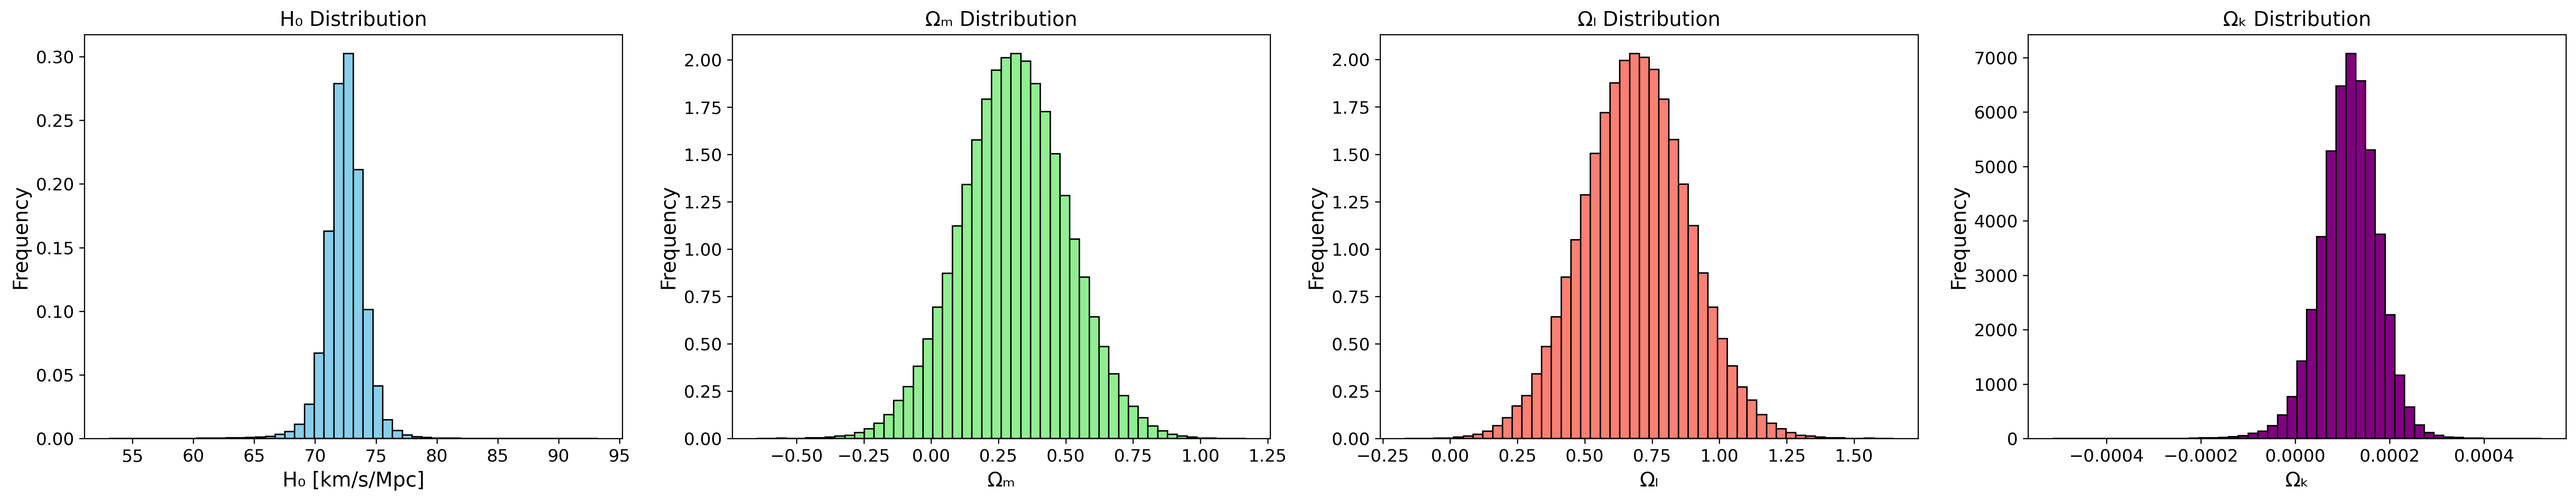
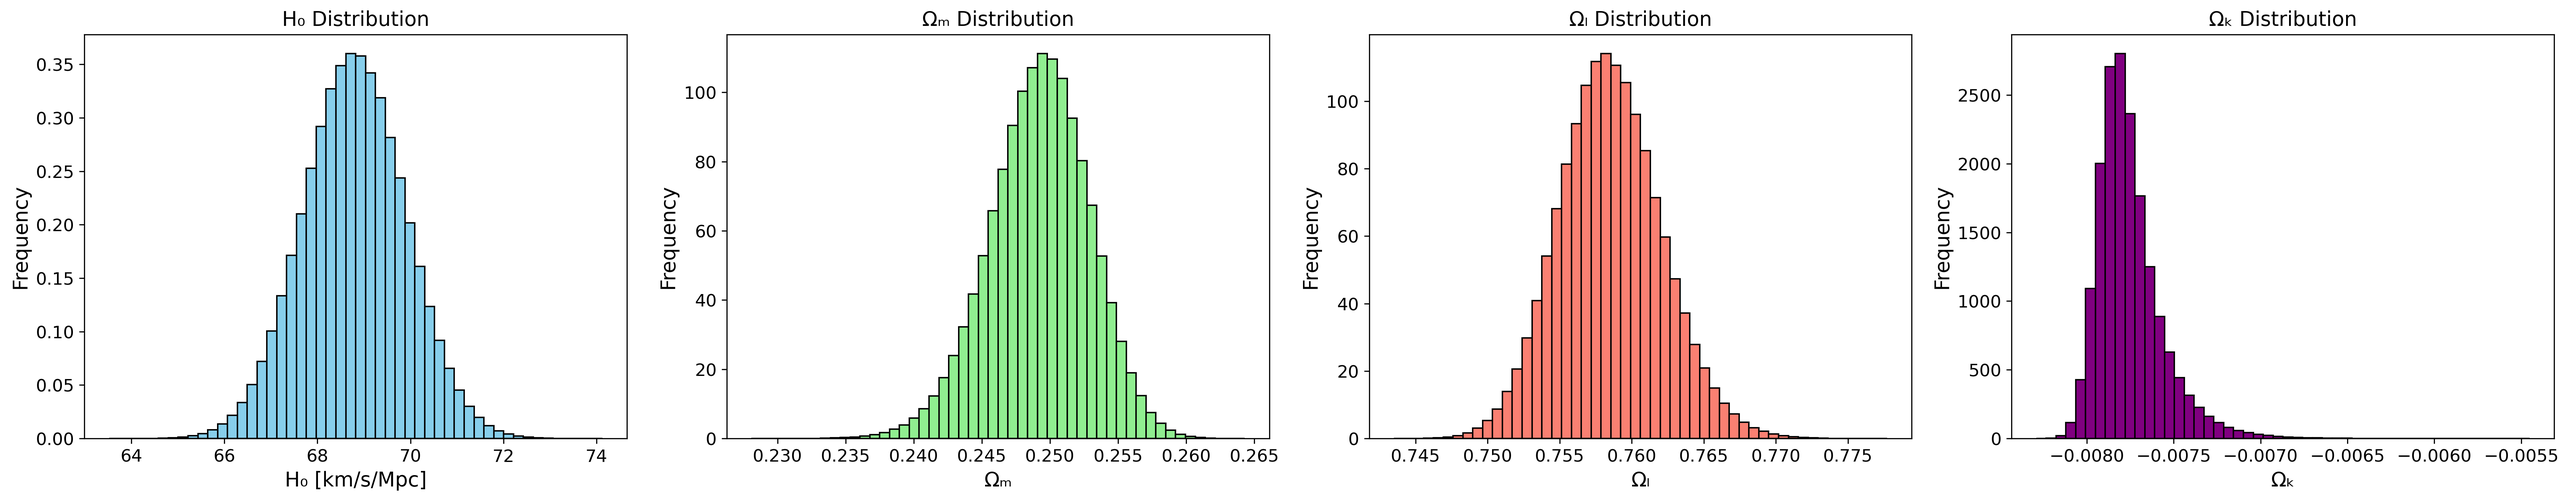
curved now working, but flat failing

diff --git a/Supernova_project/sbi_cosmology.py b/Supernova_project/sbi_cosmology.py
@@ -9,6 +9,7 @@ from torch.distributions import Independent, Uniform, Normal
 from sbi import inference as inference
 from sbi.neural_nets.factory import posterior_nn
 from sbi.analysis import pairplot
+import corner
 
 # Set seeds for reproducibility
 RANDOM_SEED = 42
@@ -20,7 +21,7 @@ torch.backends.cudnn.benchmark = False
 class SBIConfig:
     # SBI settings
     NUM_SIMULATIONS = 100000
-    NUM_POSTERIOR_SAMPLES = 100000  # Increased for better posterior visualization
+    NUM_POSTERIOR_SAMPLES = 1000000  # Increased for better posterior visualization
     BATCH_SIZE = 128    
     # Physics constants
     C = 299792.458  # Speed of light in km/s
@@ -49,7 +50,7 @@ class SBIConfig:
         'curved': {
             'H0': (71.0, 5),
             'Om': (0.3, 0.1),  # centered at 0.45 with std of (0.9-0)/4
-            'Ok': (0.0, 0.0)      # centered at 0 with std of 0.1
+            'Ok': (0.0, 0.05)      # centered at 0 with std of 0.1
         }
     }
 
@@ -142,29 +143,27 @@ class CosmologicalSimulator:
 # TODO: torch.distributions for covariance matrix 
 # TODO: corner plot (corner package)
 def apply_curvature_correction(chi, Ok):
-    """Apply curvature correction to comoving distance"""
-    Ok_abs = torch.abs(Ok)
-    sqrt_abs_Ok = torch.sqrt(Ok_abs)
+    """Apply curvature correction to comoving distance, differentiating between positive and negative Ok
     
-    # Handle different curvature cases
-    pos_mask = Ok > 0
-    neg_mask = Ok < 0
-    flat_mask = Ok == 0
+    For Ok > 0 (open universe):
+        chi/sqrt(Ok) + (chi^3)/6 * sqrt(Ok) + (chi^5)/120 * sqrt(Ok)^3
+    For Ok < 0 (closed universe):
+        chi/sqrt(-Ok) - (chi^3)/6 * sqrt(-Ok) + (chi^5)/120 * sqrt(-Ok)^3
+    """
+    # Handle positive Ok
+    def positive_ok(Ok, chi):
+        sqrt_Ok = torch.sqrt(Ok + SBIConfig.EPSILON)
+        return chi/sqrt_Ok + (chi**3)/6 * sqrt_Ok + (chi**5)/120 * sqrt_Ok**3
     
-    result = torch.zeros_like(chi)
+    # Handle negative Ok
+    def negative_ok(Ok, chi):
+        sqrt_neg_Ok = torch.sqrt(-Ok + SBIConfig.EPSILON)
+        return chi/sqrt_neg_Ok - (chi**3)/6 * sqrt_neg_Ok + (chi**5)/120 * sqrt_neg_Ok**3
     
-    # TODO: Taylorentwicklung
-    # Positive curvature
-    if torch.any(pos_mask):
-        result[pos_mask] = torch.sinh(sqrt_abs_Ok[pos_mask] * chi[pos_mask]) / (sqrt_abs_Ok[pos_mask] + SBIConfig.EPSILON)
-    
-    # Negative curvature
-    if torch.any(neg_mask):
-        result[neg_mask] = torch.sin(sqrt_abs_Ok[neg_mask] * chi[neg_mask]) / (sqrt_abs_Ok[neg_mask] + SBIConfig.EPSILON)
-    
-    # Flat case
-    if torch.any(flat_mask):
-        result[flat_mask] = chi[flat_mask]
+    # Use where to select appropriate calculation based on Ok sign
+    result = torch.where(Ok > 0, 
+                        positive_ok(Ok, chi),
+                        negative_ok(Ok, chi))
     
     return result
 
@@ -216,7 +215,6 @@ def plot_training_data(z_obs, mu_obs, mu_err, theta, simulated_data, model_type=
         ax2.set_xlabel('Redshift (z)')
         ax2.set_ylabel('Distance Modulus (μ)')
         ax2.set_title('Model Predictions (n=50) vs Data')
-        ax2.set_xscale('log')
         ax2.legend()
         
         # Plot parameter distributions (bottom)
@@ -269,7 +267,6 @@ def plot_training_data(z_obs, mu_obs, mu_err, theta, simulated_data, model_type=
         ax3.set_xlabel('Redshift (z)')
         ax3.set_ylabel('Distance Modulus (μ)')
         ax3.set_title('Model Predictions (n=50) vs Data')
-        ax3.set_xscale('log')
         ax3.legend()
         
         # Plot parameter distributions (bottom)
@@ -391,11 +388,60 @@ class CosmologySBI:
         return self.posterior.sample((num_samples,), x=self.mu_obs)
     # TODO: Mit fake daten neuen Posterior bilden, für die Daten kennen wir die Parameter
 
-def plot_scientific_results(samples_flat=None, samples_curved=None, save_path=None):
+    def back_test_network(self):
+        """Test the network with simulated data"""
+        # create fake data
+        theta = self.prior.sample((1,))  # Sample a single set of parameters
+        x = self.simulator.simulate(theta)
+        # Extract just the distance modulus values (second dimension)
+        x = x[0, :, 1]  # Shape should now be (n_redshifts,)
+        
+        # Sample from posterior using the simulated data
+        samples = self.posterior.sample((SBIConfig.NUM_POSTERIOR_SAMPLES,), x=x)
+        
+        # Create plots
+        if self.simulator.model_type == "flat":
+            fig, axes = plt.subplots(1, 3, figsize=(20, 5))
+            omega_l = 1 - samples[:, 1]
+        else:
+            fig, axes = plt.subplots(1, 4, figsize=(25, 5))
+            omega_l = 1 - samples[:, 1] - samples[:, 2]
+        
+        # Plot distributions
+        axes[0].hist(samples[:, 0], bins=50, color='skyblue', edgecolor='black', density=True)
+        axes[0].set_title('H₀ Distribution')
+        axes[0].set_xlabel('H₀ [km/s/Mpc]')
+        axes[0].set_ylabel('Frequency')
+
+        axes[1].hist(samples[:, 1], bins=50, color='lightgreen', edgecolor='black', density=True)
+        axes[1].set_title('Ωₘ Distribution')
+        axes[1].set_xlabel('Ωₘ')
+        axes[1].set_ylabel('Frequency')
+
+        axes[2].hist(omega_l, bins=50, color='salmon', edgecolor='black', density=True)
+        axes[2].set_title('Ωₗ Distribution')
+        axes[2].set_xlabel('Ωₗ')
+        axes[2].set_ylabel('Frequency')
+
+        if self.simulator.model_type == "curved":
+            axes[3].hist(samples[:, 2], bins=50, color='purple', edgecolor='black', density=True)
+            axes[3].set_title('Ωₖ Distribution')
+            axes[3].set_xlabel('Ωₖ')
+            axes[3].set_ylabel('Frequency')
+
+        plt.tight_layout()
+        plt.savefig(f'{SBIConfig.PLOT_PATH}sbi_back_{self.simulator.model_type}_posteriors.png', dpi=300, bbox_inches='tight')
+        plt.close()
+
+def plot_scientific_results(samples_flat=None, samples_curved=None, data_type="real"):
     """Create publication-quality plots of the results"""
     for model_type, samples in [("flat", samples_flat), ("curved", samples_curved)]:
         if samples is None:
             continue
+            
+        # Convert tensor to numpy array if needed
+        if torch.is_tensor(samples):
+            samples = samples.numpy()
             
         # Calculate Omega_lambda
         omega_l = 1 - samples[:, 1] if model_type == "flat" else 1 - samples[:, 1] - samples[:, 2]
@@ -442,8 +488,33 @@ def plot_scientific_results(samples_flat=None, samples_curved=None, save_path=No
             axes[3].set_ylabel('Frequency')
         
         plt.tight_layout()
-        plt.savefig(f'{SBIConfig.PLOT_PATH}sbi_{model_type}_posteriors.png', dpi=300, bbox_inches='tight')
+        if data_type == "fake":
+            plt.savefig(f'{SBIConfig.PLOT_PATH}sbi_{model_type}_posteriors_fake.png', dpi=300, bbox_inches='tight')
+        else:
+            plt.savefig(f'{SBIConfig.PLOT_PATH}sbi_{model_type}_posteriors.png', dpi=300, bbox_inches='tight')
         plt.close()
+
+        # Create corner plot
+        if model_type == "curved":
+            fig = corner.corner(samples, labels=['H0', 'Om', 'Ok'], 
+                              plot_datapoints=False, plot_density=False, 
+                              contours=True, fill_contours=True, 
+                              levels=[0.68, 0.95, 0.997])
+        else:
+            fig = corner.corner(samples, labels=['H0', 'Om'], 
+                              plot_datapoints=False, plot_density=False, 
+                              contours=True, fill_contours=True, 
+                              levels=[0.68, 0.95, 0.997])
+            
+        if data_type == "fake":
+            plt.savefig(f'{SBIConfig.PLOT_PATH}sbi_{model_type}_corner_plot_fake.png', dpi=300, bbox_inches='tight')
+        else:
+            plt.savefig(f'{SBIConfig.PLOT_PATH}sbi_{model_type}_corner_plot.png', dpi=300, bbox_inches='tight')
+        plt.close()
+
+
+
+
 
 if __name__ == "__main__":
     # Load real data
@@ -453,7 +524,7 @@ if __name__ == "__main__":
     samples_dict = {}
     
     # Test both models with a few samples
-    for model_type in ["flat", "curved"]:
+    for model_type in ["curved", "flat"]:
         print(f"\nTesting {model_type.capitalize()} ΛCDM model...")
         
         # Initialize SBI
@@ -465,10 +536,13 @@ if __name__ == "__main__":
         sbi.train()
         print("\nSampling from posterior...")
         samples_dict[model_type] = sbi.sample_posterior()
+
+        # back test the network
+        sbi.back_test_network()
     
     # Create final scientific plots
     print("\nCreating final visualization...")
     plot_scientific_results(
         samples_flat=samples_dict["flat"],
-        samples_curved=samples_dict["curved"]
+        samples_curved=samples_dict["curved"],
     )

diff --git a/Supernova_project/cosmology_inference.py b/Supernova_project/cosmology_inference.py
@@ -239,28 +239,6 @@ class CosmologyInference:
         else:
             Ok = np.zeros(10000)
         
-        # Define ranges for the corner plot
-        ranges = [
-            (50, 80),     # H0 range
-            (0.1, 0.5),   # Om range
-            (-0.03, 0.03) # Ok range
-        ]
-        
-        # make a corner plot
-        fig = corner.corner(
-            np.stack([H0, Om, Ok], axis=-1), 
-            labels=['H0', 'Om', 'Ok'],
-            range=ranges,
-            plot_datapoints=False,
-            plot_density=False,
-            plot_contours=True,
-            fill_contours=True,
-            levels=[0.68, 0.95, 0.997],
-            plot_contours_kwargs={'colors': ['red', 'green', 'blue']}
-        )
-        plt.savefig(f'{Config.PLOT_PATH}{model_type}_corner_plot.png')
-        plt.close()
-
         # plot the distance modulus for each combination
         plt.figure(figsize=(10, 8))
         plt.title('Distance Modulus')
